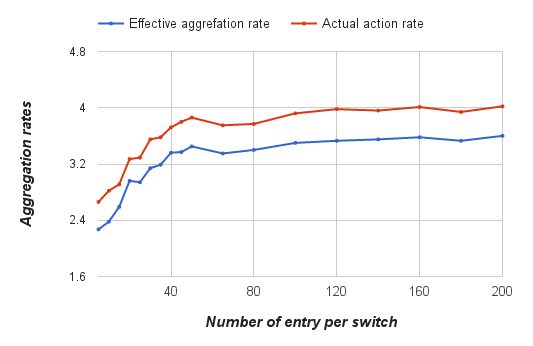
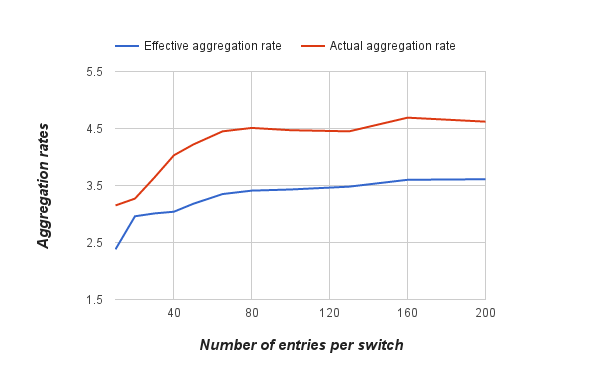
Chap 4 done, fix some figure and grammar errors

diff --git a/experiment.tex b/experiment.tex
@@ -3,7 +3,7 @@
 In this chapter, we evaluate the methods presented in Chapter 3. First, the environment and the reason of using them will be explained. Then, we will show different experiments and their corresponding results.
 
 \section{General setup}
-Table~~\ref{table:Experiment_table} is a summary of all the tools and their versions in the evaluation. We use Mininet to simulate the data center network \cite{Mininet}. It allows us to creates a large-scale virtual network easily. It provides Python APIs as well as a command line interface to customize the network. It also offers an interactive interface to test the connectivity and performance.
+Table~~\ref{table:Experiment_table} is a summary of all the tools and their versions in the evaluation. We use Mininet to simulate the data center network \cite{Mininet}. It allows us to create a large-scale virtual network easily. It provides Python APIs as well as a command line interface to customize the network. It also offers an interactive interface to test the connectivity and performance.
 
 \begin{table}[H]
 \centering
@@ -50,7 +50,7 @@ To evaluate the effectiveness of the detection method under various scenarios, t
 \label{table:network_env}
 \end{table}
 
-The in-band control is used for control channel. It is the default setting of Mininet and is more convenient to set up. Although there are special flow entries for in-band control channel, they are hidden and will not have any influence on our experiment. Only one controller is used. The hosts are irrelevant to our method, only a minimal number of them are in our network environment to make the topology reasonable. In fat tree topology, the number of hosts is the number of pods divided by 2, while in two-tier and three-tier topology, one host is connected to each edge switches. There are 254 flow tables in an OpenFlow switch simulated by Mininet. The flow entries are installed pro-actively in the OpenFlow switches, and due to the reason stated in the last paragraph of Section~\ref{Further_discussion}, the controller will maintain a record of switches, including ports, links and flow entries. 
+The in-band control is used for control channel. It is the default setting of Mininet and is more convenient to set up. Although there are special flow entries for in-band control channel, they are hidden and will not have any influence on our experiment. Only one controller is used. The hosts are irrelevant to our method, only a minimal number of them are in our network environment to make the topology reasonable. In fat tree topology, the number of hosts is the number of pods divided by 2, while in two-tier and three-tier topology, one host is connected to each edge switches. There are 254 flow tables in an OpenFlow switch simulated by Mininet. The flow entries are installed pro-actively in the OpenFlow switches, and as it stated in the last paragraph of Section~\ref{Further_discussion}, the controller will maintain a record of switches, including ports, links and flow entries. 
 
 The core algorithm of the flow entry detection method is implemented as a Ryu controller application. It obtains essential information from the configuration files, find aggregated groups, generate raw packets and send them by \texttt{Packet\_out}, and check \texttt{Packet\_in} to see if the packets come back as expected. Packets are generated by Ryu's built-in API library. In order to send \texttt{Packet\_out} with a raw packet, the action should be set to ``forwarding to \texttt{OFPP\_TABLE}'', which means the packet is sent to the first flow table after the action is executed; otherwise, \texttt{Packet\_out} will not be processed as an ordinary packet, and the action set will be executed directly without going through the processing pipeline \cite{PACKETOUT}. Due to the reason stated in the last paragraph of Section~\ref{Further_discussion}, the detection packets from the controller should be sent to a normal port rather than the default controller-specifying port \texttt{OFPP\_CONTROLLER}. 
 
@@ -95,9 +95,9 @@ other ports in 1024: 10\%
 \end{itemize}
 
 \section{Experiment and result}
-In this section, we will compare the effectiveness of our method under different types of network environments. Each subsection contains different experiment designed for different purposes. The control variables including topology type, network scale, and number of flow entries will be experimented and discussed. Since our experiment involves some randomness while entries generating, the result are not always stable, especially in the small topologies. The shown result are the one that is closest to the average in 5 runs.
+In this section, we will compare the effectiveness of our method under different types of network environments. Each subsection contains different experiment designed for different purposes. The control variables including topology type, network scale, and number of flow entries will be experimented and discussed. Since our experiment involves some randomness while entries generating, the result are not always stable, especially in the small topologies. The shown numbers are the one that is closest to the average in 5 runs.
 
-In statistic tables in following subsections, the effective aggregation rate is the number that the total number of entries in the network divided by total number of groups, and the actual aggregation rate is the total number of entries inside aggregated groups divided by total number of groups, both of them are affected by only the regular entries in the environment, which do not include the auxiliary entries. Due to the fact that entries that has other entries with same match field and value may belong to more than one aggregated group, the total entries in groups will be more than the total entries exist in the network. The aggregation rates number will be rounded to the second decimal place.
+In statistic tables in following subsections, the effective aggregation rate is the number that the total number of entries in the network divided by total number of groups, and the actual aggregation rate is the total number of entries inside aggregated groups divided by total number of groups, both of them are affected by only the regular entries in the environment, which do not include the auxiliary entries. Due to the fact that entries that have other entries with same match field and value may belong to more than one aggregated group, the total entries in groups will be more than the total entries exist in the network. The aggregation rates number will be rounded to the second decimal place.
 
 When an auxiliary entry is installed, a short period of waiting time is needed, otherwise after the Packet\_Out is send, there is a low chance that it might be forwarded unexpectedly. This happens when it arrives at an certain switch that contains an auxiliary entry, the entry is not installed. Therefore, for every installation of auxiliary entry, the controller will wait 0.01 second before continuing the process to ensure the auxiliary entries work as expected. The time for adding auxiliary flow entries is included in execution time. In the statistics, time will also be rounded to the second decimal place. The number of auxiliary entries is also calculated.
 
@@ -187,8 +187,8 @@ The relation between topology size and execution time is in Figure~\ref{differen
 \label{different_scale_aux_trend}
 \end{figure}
 
-\subsection{Influence of flow entry number}
-In this experiment, we will use only one topology - fat\_tree\_4 and change the number of entries on each switch to see the influence it might bring. The number of entries on each switch increases 5 entries from 5 to 50 every run, and the increasing number grows in the interval from 50 to 200. The result table is in Table~~\ref{table:different_entry_per_switch}, and the trend chart of effective aggregation rate with different number of entries on each switch is shown as Figure~\ref{exp_entrynum_trend}. The execution time and the number of auxiliary grow linearly along with the number of entries on a switch.
+\subsection{Influence of flow entry number on each switch}
+In this experiment, we will use only one topology - fat\_tree\_4 and change the number of entries on each switch to see the influence it might bring. The number of entries on each switch increases 10 entries from 10 to 50 every run, and the increasing number grows in every interval from 50 to 200. The result table is in Table~~\ref{table:different_entry_per_switch}, and the trend chart of effective aggregation rate with different number of entries on each switch is shown as Figure~\ref{exp_entrynum_trend}. The execution time and the number of auxiliary grow linearly along with the number of entries on a switch.
 
 \begin{table}
 \centering
@@ -196,24 +196,17 @@ In this experiment, we will use only one topology - fat\_tree\_4 and change the 
 \begin{tabular}{|l|p{2.6cm}|p{2.6cm}|p{1.9cm}|p{2.8cm}|}
 \hline Number of entries per switch & Effective aggregation rate & Actual aggregation rate & Execution time (sec) & Number of auxiliary entry \\
 \hline
-\hline 5 & 2.27 & 2.66 & 1.64 & 36 \\
-\hline 10 & 2.38 & 2.82 & 3.98 & 72 \\
-\hline 15 & 2.59 & 2.91 & 5.53 & 110 \\
+\hline 10 & 2.38 & 3.15 & 3.98 & 72 \\
 \hline 20 & 2.96 & 3.27 & 8.27 & 142 \\
-\hline 25 & 2.94 & 3.29 & 11.08 & 179 \\
-\hline 30 & 3.14 & 3.55 & 15.03 & 214 \\
-\hline 35 & 3.19 & 3.58 & 17.22 & 242 \\
-\hline 40 & 3.36 & 3.72 & 19.24 & 280 \\
-\hline 45 & 3.37 & 3.80 & 24.42 & 310 \\
-\hline 50 & 3.45 & 3.86 & 26.19 & 346 \\
-\hline 65 & 3.35 & 3.75 & 34.31 & 461 \\
-\hline 80 & 3.40 & 3.77 & 41.47 & 560 \\
-\hline 100 & 3.50 & 3.92 & 55.58 & 672 \\
-\hline 120 & 3.53 & 3.98 & 64.96 & 812 \\
-\hline 140 & 3.55 & 3.96 & 79.21 & 977 \\
-\hline 160 & 3.58 & 4.01 & 89.21 & 1070 \\
-\hline 180 & 3.53 & 3.94 & 102.54 & 1216 \\
-\hline 200 & 3.60 & 4.02 & 119.47 & 1359 \\
+\hline 30 & 3.01 & 3.64 & 15.03 & 214 \\
+\hline 40 & 3.04 & 4.03 & 19.24 & 280 \\
+\hline 50 & 3.18 & 4.22 & 26.19 & 346 \\
+\hline 65 & 3.35 & 4.45 & 34.31 & 461 \\
+\hline 80 & 3.41 & 4.51 & 41.47 & 560 \\
+\hline 100 & 3.43 & 4.47 & 55.58 & 672 \\
+\hline 120 & 3.48 & 4.45 & 64.96 & 812 \\
+\hline 160 & 3.60 & 4.69 & 89.21 & 1070 \\
+\hline 200 & 3.60 & 4.62 & 119.47 & 1359 \\
 \hline 
 \end{tabular}
 \label{table:different_entry_per_switch}
@@ -236,13 +229,9 @@ After tracking down the entry inside the two-tier topologies, we discover that a
 In the Figure~\ref{different_topo_distribute}, we can see two things: first, the area coverage of the trend chart of three\_tier\_4\_2\_7 is apparently larger than fat\_tree\_4. Since in this experiment, there are same number of switches and entries in every topologies, this can mean that the groups contain more redundant entries caused by the entries with same match field an value. However, it should not be the reason for bad aggregation rates in three-tier topologies since this affects the execution time more than aggregation rate, and in Table~~\ref{table:different_topo_type}, the difference of effective aggregation rate and actual aggregation rate of the fat tree topology is even slightly larger than that of the three-tier topology. Second, a lot of groups in three\_tier\_2\_7 only contain one entry. This is induced by the fact that the aggregation switches being the hub node in the topology. In the middle of the aggregated group finding stage, after a few aggregation groups with many entries are formed, and the entries in the aggregation switches belong to certain group, the rest of the entries in the core switches and edge switched are cut off and not able to connect in order to form another big group. And it is even more so in three\_tier\_4\_2\_7 since compare to other three-tier topologies, there are only two aggregation switches.
 This can explain the bad aggregation rate in these topologies.
 
-In the trend chart of effective aggregation rate and actual aggregation rate in Figure~\ref{different_scale_rate_trend}, except fat\_tree\_2 who has lower aggregation rates due the less number of switches and links 
-the aggregation rates are similar in different sizes of topology, it actually does not have any clear effect on the aggregation rate. Theoretically, there should be positive factors and negative factors that would influence the aggregation rates. A positive factor, for example, is the larger number of links, which helps to raise the chance for adopting an entry into a grow if the ratio between the number of forwarding ports and entries are balanced. And examples of negative factors including more entries to be fit into aggregated groups, and more hosts that will stop an aggregated group from extending. The result show that these factors break even, and the effectiveness of our method will not drop with the increasing of size of topologies.
+In the trend chart of effective aggregation rate and actual aggregation rate in Figure~\ref{different_scale_rate_trend}, except fat\_tree\_2 who has lower aggregation rates due the less number of switches and links, 
+the aggregation rates are similar in different sizes of topology, it actually does not have any clear effect on the aggregation rate. Theoretically, there should be positive factors and negative factors that would influence the aggregation rates. A positive factor, for example, is the larger number of links, which helps to raise the chance for adopting an entry into a grow if the ratio between the number of forwarding ports and entries are balanced. And some examples of negative factors are, more entries to be fit into aggregated groups, and more hosts that will stop an aggregated group from extending. The result show that these factors break even, and the effectiveness of our method will not drop with the increasing of size of topologies.
 
-From the trend chart Figure~\ref{exp_entrynum_trend}, we can clearly see that the aggregation rate grows as the number of entries in the switch increases from 5 to 50 entries per switch. However, the growth rate slowly decreases after 40 entry per switch and converges as the number of entry gets larger and larger. 
-A reasonable explanation for this phenomenon is the limitation of the number of fields a detection packet has. According to the selected field set in \ref{flow_entry_generation}, XXXXXXXXXXX
-And as a detection packet get more close to saturation, it will also make it harder for the corresponding aggregated group to find another entry that satisfies the aggregation conditions. 
+From the trend chart Figure~\ref{exp_entrynum_trend}, we can clearly see that the aggregation rate grows as the number of entries in the switch increases from 5 to 50 entries per switch. However, the growth rate slowly decreases after 50 entries per switch as the number of entry gets larger and larger. A reasonable explanation for this phenomenon is the limitation of the number of fields a detection packet has. From this perspective, we may infer that, the effective aggregation rate may converge at 6, with two field selected each layer according to the match field set chosen in \ref{flow_entry_generation}, if the number of entries on each switch gets really big.
 
-In order to justify the inference, we also did another run of experiment with 500 entries on each switch, which results in 3.99 effective aggregation rate and 4.3 actual aggregation rate.
-
-With these analysis, we can conclude that the more entries are in the switches, the higher aggregation rates we are able to get, but this is only true before the fields of detection packet reaches saturation. 
+In order to justify the above inference, we also did another run of experiment with 1000 entries on each switch. Different from the inference, it results in 4.46 effective aggregation rate and 5.87 actual aggregation rate. After further inspecting the content in aggregated groups, we discover that due to how field tcp\_port is generated in \ref{flow_entry_generation}, in fact, there are a lot of entry with tcp source or destination 80. According to \ref{Aggregated_group_finding}, when this kind of entries are met during group finding process, it is likely for two aggregated groups to end up in the same location once the two group pass though a same switch while finding. And as a detection packet get more close to saturation, it will also make it harder for the corresponding aggregated group to find another entry that satisfies the aggregation conditions. Therefore we did not have the best effective aggregation rate even with big number of entry per switch. With the analysis, we can conclude that under the number per switch that induce the saturation of the detection packets, the more entries there are in the switches, the higher aggregation rates we are able to get.

diff --git a/conclusion.tex b/conclusion.tex
@@ -2,6 +2,7 @@
 \label{conclusion}
 In this work, we can see how the problems in a certain scenario can be solved by using SDN features. Even the scenario is different, we believe that the new problem it introduced can also be solved with some extension and adjustment, as long as we are using SDN.
 
+
 We can only try to anticipate what the attackers may try to target with SDNs.  The deployments are new, the protocols are new, the controller software is new, and the history of past SDN attacks is unknown.  Based on the SDN architecture, we can predict where an attacker may be likely to strike.  If we put ourselves in the attacker’s shoes, we might be able to spot a weakness to exploit. Then we can harden that weakness ahead of time.
 
 Before an organization embarks on an SDN deployment project, they should consider how they will secure the system during the early design stage. 

diff --git a/method.tex b/method.tex
@@ -86,7 +86,6 @@ A detection packet is needed for each aggregated group. In other words, minimizi
 
 As the abstraction of the problem, we treat switches as vertex and forwarding actions of entries as edges. Our goal is to find the minimum number sets of aggregated group such that all entries belong to at least an aggregated group. It forms a complex DAG problem and is more complex than the longest path problem \cite{DMR97,RU04}, which is NP-complete and hard to find a approximation algorithm. Starting from an arbitrary switch, we use DFS to traversal and compose aggregated groups one by one until all the entries belong to at least one group. It can be done in a reasonable amount of time, which will be listed in \ref{Implementation_and_Evaluation}, under the scale of experimental environments.
 
-
 \subsection{Aggregate group finding}
 \label{Aggregated_group_finding}
 
